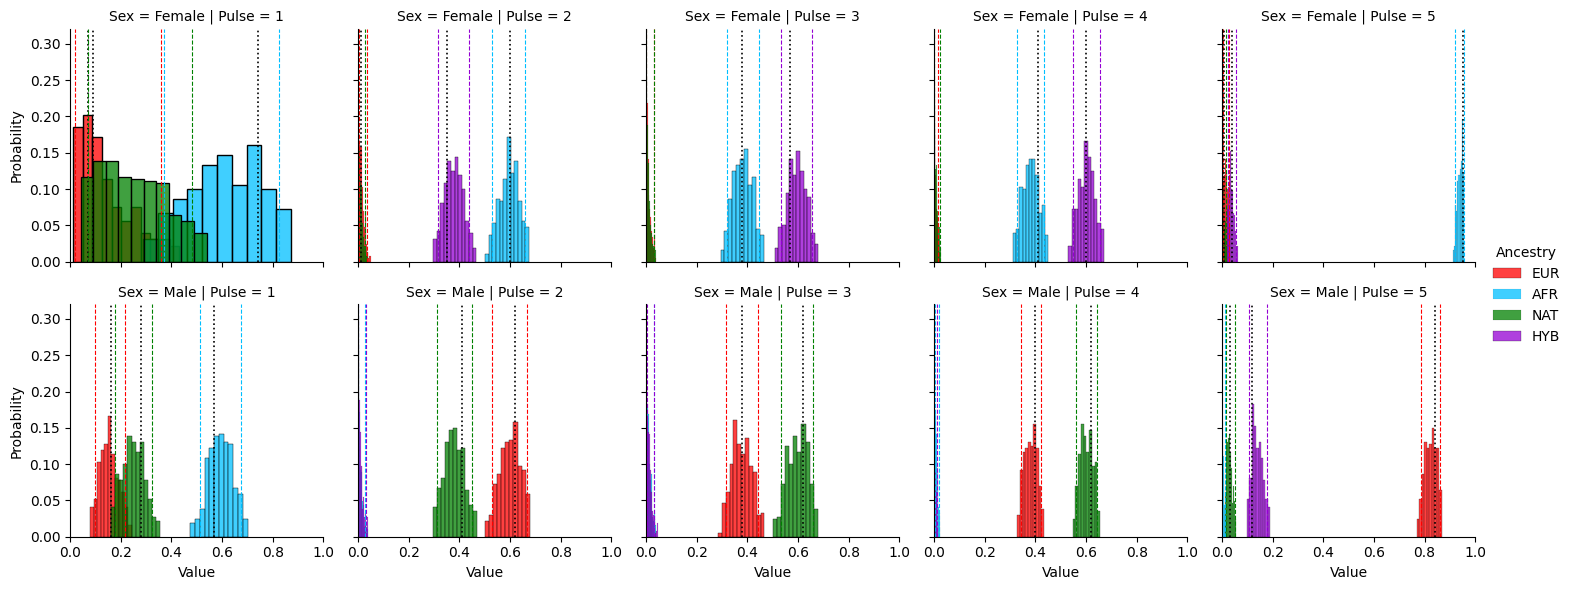
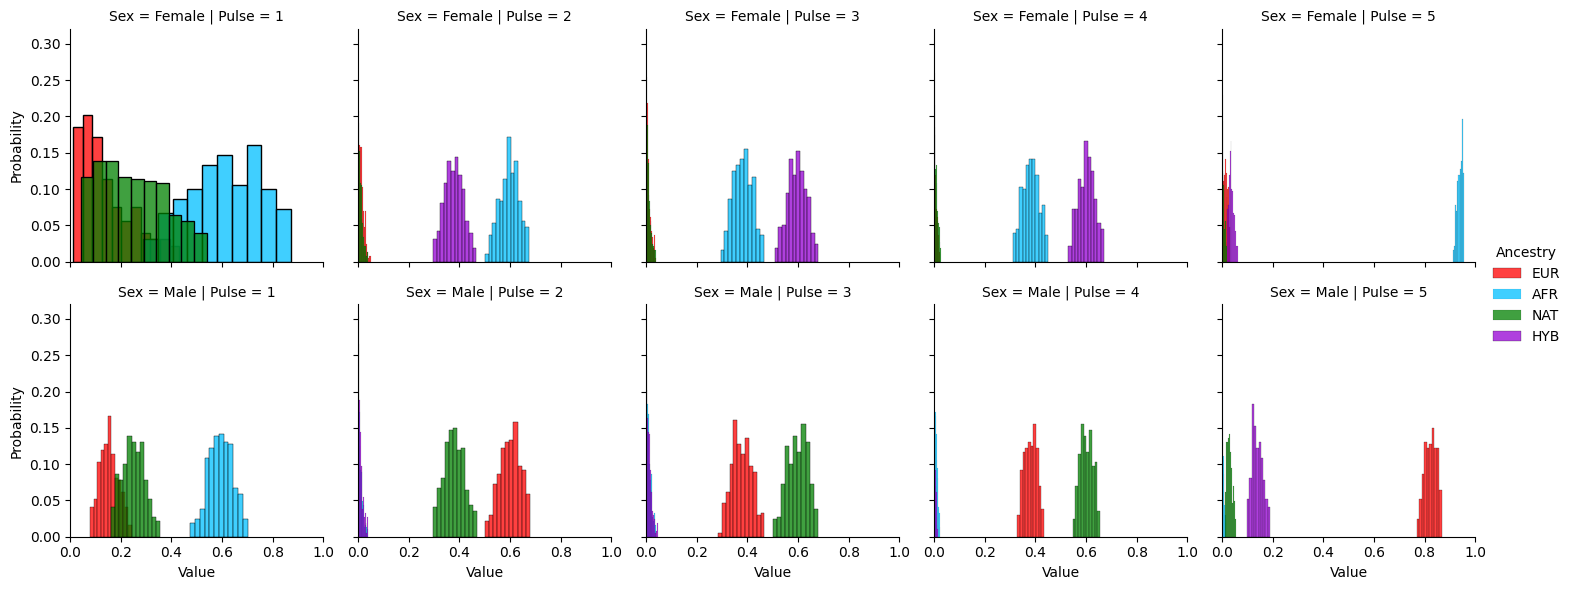
Changed legends for line graphs

Changed region(s): [[0.7793, 0.5186, 0.8104, 0.9153]]

diff --git a/script.py b/script.py
@@ -2,8 +2,7 @@ import pandas as pd
 import seaborn as sns
 import numpy as np
 import matplotlib.pyplot as plt
-import math
-import scipy.stats as st
+import matplotlib.lines as mlines
 import csv
 import os
 
@@ -73,7 +72,7 @@ def populate_dataframe(df_raw, first_column_scenario):
     return df_new
 
 #plots histograms for each pulse, separated by sex
-def plot_histograms(df, ancestries, type, percentage, savefile):
+def plot_histograms(df, ancestries, type, percentage, lines, savefile):
     sexes = ("Female", "Male")
     colours = list()
 
@@ -88,30 +87,31 @@ def plot_histograms(df, ancestries, type, percentage, savefile):
     graph = sns.FacetGrid(df_hist, col="Pulse", row="Sex", hue="Ancestry", palette=colours)
     graph = (graph.map_dataframe(sns.histplot, x="Value", multiple=type, stat='probability').add_legend())
     
-    #draw lines in graphs
-    for i in range(0, 2):
-        axes = graph.axes[i]
-        for j in range (0, len(axes)):
-                for anc in range (0, len(ancestries)):
-                    if (len(ancestries) == 1 and ancestries[0] == "HYB"): pulse = j+2
-                    else: pulse = j+1
-                    df_temp = df_hist.loc[(df_hist["Pulse"] == pulse) & (df_hist["Sex"] == sexes[i]) & (df_hist["Ancestry"] == ancestries[anc])]
-                    if df_temp.empty:
-                        continue
-                    #drawing quantile bounds in graph
-                    lower_quantile = np.percentile(df_temp["Value"], ((100-percentage)/2), method="closest_observation")
-                    upper_quantile = np.percentile(df_temp["Value"], (100-((100-percentage)/2)), method="closest_observation")
-                    
-                    #quantile bounds lines
-                    axes[j].axvline(x=lower_quantile, color=colours[anc], linestyle='--', linewidth=0.8)
-                    axes[j].axvline(x=upper_quantile, color=colours[anc], linestyle='--', linewidth=0.8)
-                    
-                    #mode line
-                    axes[j].axvline(x=find_mode(df_temp), color="black", linestyle=':', linewidth=1.2)
+    if lines == True:
+        #draw lines in graphs
+        for i in range(0, 2):
+            axes = graph.axes[i]
+            for j in range (0, len(axes)):
+                    for anc in range (0, len(ancestries)):
+                        if (len(ancestries) == 1 and ancestries[0] == "HYB"): pulse = j+2
+                        else: pulse = j+1
+                        df_temp = df_hist.loc[(df_hist["Pulse"] == pulse) & (df_hist["Sex"] == sexes[i]) & (df_hist["Ancestry"] == ancestries[anc])]
+                        if df_temp.empty:
+                            continue
+                        #drawing quantile bounds in graph
+                        lower_quantile = np.percentile(df_temp["Value"], ((100-percentage)/2), method="closest_observation")
+                        upper_quantile = np.percentile(df_temp["Value"], (100-((100-percentage)/2)), method="closest_observation")
+                        
+                        #quantile bounds lines
+                        axes[j].axvline(x=lower_quantile, color=colours[anc], linestyle='--', linewidth=0.8)
+                        axes[j].axvline(x=upper_quantile, color=colours[anc], linestyle='--', linewidth=0.8)
+                        
+                        #mode line
+                        axes[j].axvline(x=find_mode(df_temp), color="black", linestyle=':', linewidth=1.2)
     plt.xlim([0, 1])
     graph.savefig(savefile)
 
-def plot_lines(df, ancestries, percentage, savefile):
+def plot_lines(df, ancestries, percentage, lines, savefile):
     sexes = ("Female", "Male")
     colours = list()
 
@@ -124,30 +124,40 @@ def plot_lines(df, ancestries, percentage, savefile):
     df_hist = df[(df["Ancestry"].isin(ancestries)) & (df["Value"] != 0)]
 
     graph = sns.FacetGrid(df_hist, col="Pulse", row="Sex", hue="Ancestry", palette=colours)
-    graph = (graph.map_dataframe(sns.histplot, x="Value", fill=False, linewidth=0, kde=True, stat='probability').add_legend())
+    graph = (graph.map_dataframe(sns.histplot, x="Value", fill=False, linewidth=0, kde=True, stat='probability'))
 
-    #draw lines in graphs
-    for i in range(0, 2):
-        axes = graph.axes[i]
-        for j in range (0, len(axes)):
-                for anc in range (0, len(ancestries)):
-                    if (len(ancestries) == 1 and ancestries[0] == "HYB"): pulse = j+2
-                    else: pulse = j+1
-                    df_temp = df_hist.loc[(df_hist["Pulse"] == pulse) & (df_hist["Sex"] == sexes[i]) & (df_hist["Ancestry"] == ancestries[anc])]
-                    if df_temp.empty:
-                        continue
-                    #drawing quantile bounds in graph
-                    lower_quantile = np.percentile(df_temp["Value"], ((100-percentage)/2), method="closest_observation")
-                    upper_quantile = np.percentile(df_temp["Value"], (100-((100-percentage)/2)), method="closest_observation")
+    if lines == True:
+        #draw lines in graphs
+        for i in range(0, 2):
+            axes = graph.axes[i]
+            for j in range (0, len(axes)):
+                    for anc in range (0, len(ancestries)):
+                        if (len(ancestries) == 1 and ancestries[0] == "HYB"): pulse = j+2
+                        else: pulse = j+1
+                        df_temp = df_hist.loc[(df_hist["Pulse"] == pulse) & (df_hist["Sex"] == sexes[i]) & (df_hist["Ancestry"] == ancestries[anc])]
+                        if df_temp.empty:
+                            continue
+                        #drawing quantile bounds in graph
+                        lower_quantile = np.percentile(df_temp["Value"], ((100-percentage)/2), method="closest_observation")
+                        upper_quantile = np.percentile(df_temp["Value"], (100-((100-percentage)/2)), method="closest_observation")
 
-                    #quantile bounds lines
-                    axes[j].axvline(x=lower_quantile, color=colours[anc], linestyle='--', linewidth=0.8)
-                    axes[j].axvline(x=upper_quantile, color=colours[anc], linestyle='--', linewidth=0.8)
-                    
-                    #mode line
-                    axes[j].axvline(x=find_mode(df_temp), color="black", linestyle=':', linewidth=1.2)
+                        #quantile bounds lines
+                        axes[j].axvline(x=lower_quantile, color=colours[anc], linestyle='--', linewidth=0.8)
+                        axes[j].axvline(x=upper_quantile, color=colours[anc], linestyle='--', linewidth=0.8)
+                        
+                        #mode line
+                        axes[j].axvline(x=find_mode(df_temp), color="black", linestyle=':', linewidth=1.2)
 
     plt.xlim([0, 1])
+    
+    #drawing the legend for each ancestry
+    legend = list()
+    for anc in range (0, len(ancestries)):
+        legend.append(mlines.Line2D([], [], color=colours[anc], marker='s', ls='', label=ancestries[anc]))
+    graph.figure.legend(handles=legend, loc=7, title="Ancestry", frameon=False)
+    graph.figure.tight_layout()
+    graph.figure.subplots_adjust(right=0.935)
+    
     graph.savefig(savefile)
 
 def filter(percentage, df_unfiltered):
@@ -295,33 +305,33 @@ del df
 create_directories()
 
 ancestries = ["EUR", "AFR", "NAT", "HYB"]
-plot_histograms(df_new, ancestries, "layer", 90, "./NO_HDR/Standard/histogram.png")
-plot_lines(df_new, ancestries, 90, "./NO_HDR/Standard/line_graph.png")
+plot_histograms(df_new, ancestries, "layer", 90, False, "./NO_HDR/Standard/histogram.png")
+plot_lines(df_new, ancestries, 90, False, "./NO_HDR/Standard/line_graph.png")
 
 ancestries = ["EUR", "AFR", "NAT"]
-plot_histograms(df_new, ancestries, "layer", 90, "./NO_HDR/Hybrid_Separated/no_hybrid_histogram.png")
-plot_lines(df_new, ancestries, 90, "./NO_HDR/Hybrid_Separated/no_hybrid_line_graph.png")
+plot_histograms(df_new, ancestries, "layer", 90, False, "./NO_HDR/Hybrid_Separated/no_hybrid_histogram.png")
+plot_lines(df_new, ancestries, 90, False, "./NO_HDR/Hybrid_Separated/no_hybrid_line_graph.png")
 
 ancestries = ["HYB",]
-plot_histograms(df_new, ancestries, "layer", 90, "./NO_HDR/Hybrid_Separated/only_hybrid_histogram.png")
-plot_lines(df_new, ancestries, 90, "./NO_HDR/Hybrid_Separated/only_hybrid_line_graph.png")
+plot_histograms(df_new, ancestries, "layer", 90, False, "./NO_HDR/Hybrid_Separated/only_hybrid_histogram.png")
+plot_lines(df_new, ancestries, 90, False, "./NO_HDR/Hybrid_Separated/only_hybrid_line_graph.png")
 
 write_stats(df_new, "./stats_NO_HDR.csv")
 
-# #filtering for only 90% of density
+#filtering for only 90% of density
 df_new = filter(90, df_new)
 
 ancestries = ["EUR", "AFR", "NAT", "HYB"]
 
-plot_histograms(df_new, ancestries, "layer", 90, "./HDR/Standard/histogram.png")
-plot_lines(df_new, ancestries, 90, "./HDR/Standard/line_graph.png")
+plot_histograms(df_new, ancestries, "layer", 90, False, "./HDR/Standard/histogram.png")
+plot_lines(df_new, ancestries, 90, False, "./HDR/Standard/line_graph.png")
 
 ancestries = ["EUR", "AFR", "NAT"]
-plot_histograms(df_new, ancestries, "layer", 90, "./HDR/Hybrid_Separated/no_hybrid_histogram.png")
-plot_lines(df_new, ancestries, 90, "./HDR/Hybrid_Separated/no_hybrid_line_graph.png")
+plot_histograms(df_new, ancestries, "layer", 90, False, "./HDR/Hybrid_Separated/no_hybrid_histogram.png")
+plot_lines(df_new, ancestries, 90, False, "./HDR/Hybrid_Separated/no_hybrid_line_graph.png")
 
 ancestries = ["HYB",]
-plot_histograms(df_new, ancestries, "layer", 90, "./HDR/Hybrid_Separated/only_hybrid_histogram.png")
-plot_lines(df_new, ancestries, 90, "./HDR/Hybrid_Separated/only_hybrid_line_graph.png")
+plot_histograms(df_new, ancestries, "layer", 90, False, "./HDR/Hybrid_Separated/only_hybrid_histogram.png")
+plot_lines(df_new, ancestries, 90, False, "./HDR/Hybrid_Separated/only_hybrid_line_graph.png")
 
 write_stats(df_new, "./stats_HDR.csv")
